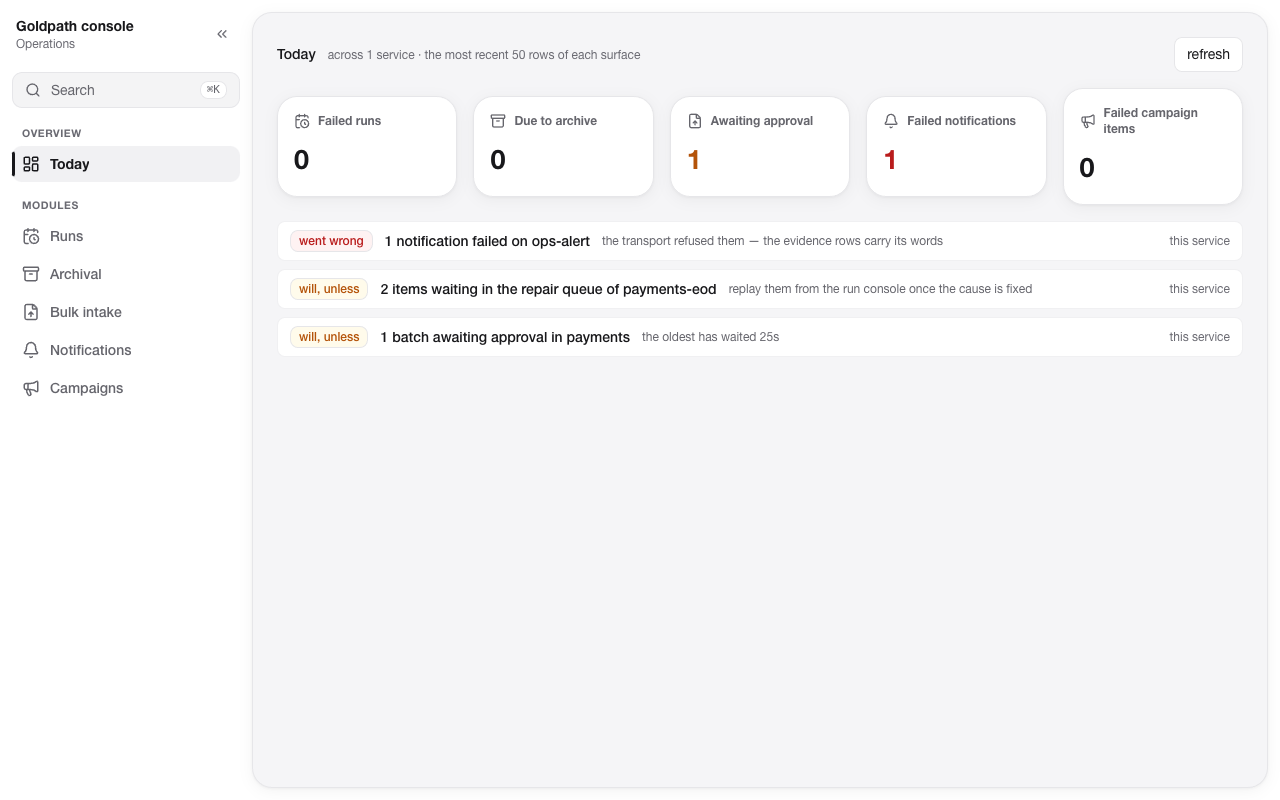
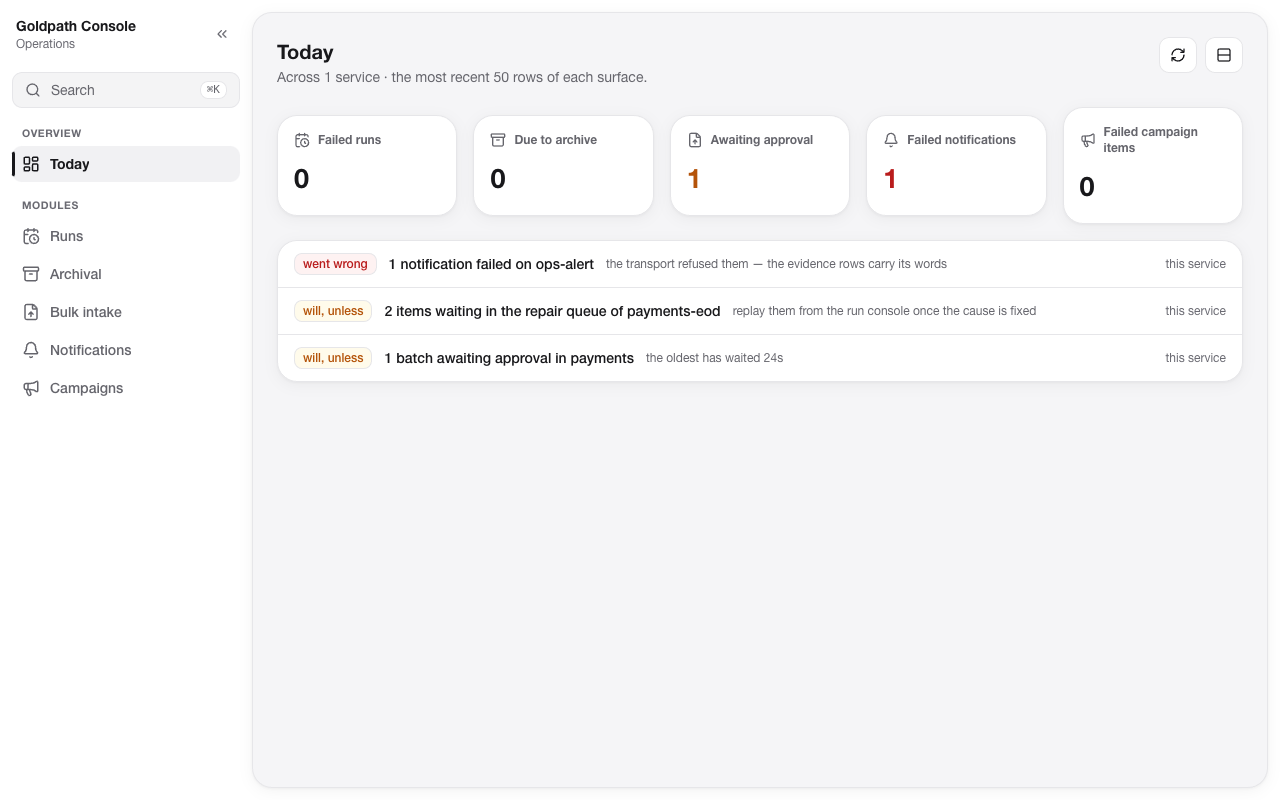
docs: freshness sweep — every stale line catches up with reality (#131)
* docs: freshness sweep — every stale line catches up with reality

- RFC index: the console row said 'U3 in flight'; it is U1-U9 met, contract R3.
- Migrations and Idempotency RFCs drop their 'draft' labels (both shipped);
  Idempotency's open DoD remainder (GP100x analyzers + ops package) is named
  and pointed at the housekeeping slice rather than left ambiguous.
- Template RFC: the dead GitLab-runner box closes with its reason — the
  problem died with the GitHub move.
- golden-manifests-v1: the coverage table gains a REALITY note — it is the
  target, not the present; templates/README stays the honest statement.
- CLAUDE.md status refreshed (2026-08-03): console phase complete, R3, and a
  pointer to the new docs/strategy/master-plan-2026-08.md — the owner-approved
  order of everything open, now a document instead of a conversation.
- README pictures re-captured from the finished U8/U9 family UI (in-card
  toolbars, icon utilities, Goldpath Console brand) — real stack, never a mock.

* review R1: the ai-sdlc ledger's console row catches up too

Accepted (reviewer output contract broke again; the finding is transcribed
and answered on the PR). The very ledger this PR's description invokes still
said 'console PARTIAL, U1-U3' — now SHIPPED-PROVEN, U1-U9, R3, 33 journeys,
with T10/T1 named as the honest remainder.

---------

diff --git a/docs/strategy/master-plan-2026-08.md b/docs/strategy/master-plan-2026-08.md
@@ -1,0 +1,56 @@
+# Master plan — 2026-08-03 (owner-approved order)
+
+The single ordered list of everything open, set with the owner on 2026-08-03 after a
+repo-wide sweep (code, RFCs, ledgers, schema-vs-generator, samples, CI). Nothing is
+open outside this list and the trigger-parked set at the bottom. Each step lands with
+the standing discipline: tests → PR → review findings answered BEFORE merge → CI
+green → merge → ledgers updated in the same PR.
+
+## The order
+
+1. **Campaign R1 implementation** — ExcludedDays, EndDate→ExpiredIncomplete, the retry
+   ladder (30s → 2m → repair queue), GlobalTps; schema + template + CLI recipe +
+   console fields + tests. The one accepted RFC with zero code; blocks S-FLEET-01/03.
+2. **Housekeeping slice** (one group): T14 four `.Produces<T>` · T8 bulk
+   `?definition=` filter · ops packages for Idempotency/AuditTrail/SoftDelete ·
+   analyzers GP1001/1002/1004 · T4 review agent as a CI step + output-contract
+   hardening · a monthly bench cadence · the GM coverage-table reality note and the
+   stale doc lines (done 2026-08-03, this PR).
+3. **preview.6 train** — R3 contract + console U7–U9 + R1 + housekeeping to NuGet;
+   T12 (CorPay EOD worker readiness) rides this train and unblocks T1; CorPay pins +
+   upgrade guide.
+4. **ADR-0012 + Platform/Module SDK RFC** — the philosophy in writing: Goldpath is a
+   PLATFORM; first-party product modules (Sync, API Portal, …) ride the shared core,
+   stand up standalone, and wear the one console family. Decisions to settle: the SDK
+   surface (shared files → packages + semver promise) · namespaced module declarations
+   in the manifest · the console contribution model (per-product console vs plugin
+   panels) · private distribution (repo/feed/license; closed modules on the open
+   core) · publishing the ui kit to npm (the @qorpe/ui question) · the container/deploy
+   story · federation auth across products.
+5. **Shapes + CLI package** (the RFC's implementation) — clean-architecture template ·
+   microservice/multi-service layout + gateway · plain-monolith variant ·
+   `goldpath new module|service` · the INTERACTIVE wizard (asks which modules, then
+   derives the infrastructure itself: "no broker needed — removed") · `goldpath init`
+   (L2 attach) · GM matrix 6/6 + a bulk-only GM row + the module×infrastructure
+   matrix as an adopter/sales document.
+6. **Pilot product module** — the API Portal or Sync skeleton: the module path's
+   CorPay. Its console composes from the kit — the third consumer that fires the
+   @qorpe/ui decision for real.
+7. **Scenario campaign** — starts after step 3 and runs alongside: S-FIN-01 first,
+   the S-FLEET set once R1 ships, the 30M rig spec co-written before any scale claim.
+   All seven seeded scenarios get evidence.
+8. **The samples — LAST, as the full-set exam** — Insurance and Telco from scratch
+   (with the step-5 wizard, proving it in anger) plus CorPay's open cells (SoftDelete,
+   Caching, a real Contracts-idiom worker consumer, the Archival slice, SPEC-GAPS
+   G3–G7, GAP-LEDGER #32/#33/#34). `add feature`, `db bundle`, the manifest skill —
+   all proven in real use; no empty core cell remains in the coverage matrix.
+
+## Parked on written triggers (deliberately open)
+
+Oracle provider (T16 — first committed Oracle-mandating adopter) · `upgrade` skill
+(first real preview→preview migration) · console URL routes / OIDC login / tenant
+picker (T9/T10/T11) · ⌘K entity-id search (needs a cross-module lookup endpoint) ·
+stat-card trends (no time series in the contract) · TS mutation for the ui kit (T3) ·
+saga + rules engine (Ring C — decided inside the step-4 RFC) · Phase 3 transformation
+package (reverse-engineer, differential-test, strangler guide — the phase after the
+samples).

diff --git a/docs/strategy/ai-sdlc-status.md b/docs/strategy/ai-sdlc-status.md
@@ -30,7 +30,7 @@ document exists to prevent.
 | Skill quality (evals) | eval set per skill; a skill that fails evals is not released (§6.2) | **PARTIAL** — as of 2026-07-24 the 4 acceptance runners are portable (published specdrift tool, no local-checkout assumption; failures print their output) and the deterministic half runs nightly (`evals-acceptance`: runner syntax + breaker vs CorPay). The LLM half — running the skills themselves per fixture — stays deferred until an agent-in-CI story exists (P2) | nightly `evals-acceptance` job | agent-in-CI story (P2) unlocks full skill-run evals |
 | Model proficiency matrix | skill × model → pass-rate matrix (§6.2) | **NOT BUILT** — Phase 2 (needs the eval lane first) | — | after the eval lane |
 | Release / DevOps | release train + delivery telemetry (§6.5) | Train **SHIPPED-PROVEN** (OIDC trusted publishing, license gate, roll script); delivery report **NOT BUILT** — Phase 2 | release workflow + license gate | — |
-| Operations | admin APIs + ops packs + console (§7.1) | Admin APIs + dashboards + runbooks **SHIPPED-PROVEN** per module; console **PARTIAL** (U1–U3 met; U4 in flight — the cross-service registry, the TODAY triage home and `MapGoldpathConsole()` ship, each proven in the nightly smoke against three real apps; the auth story and the CorPay proof remain) | admin contract frozen + integration proofs | console phases U1–U4 |
+| Operations | admin APIs + ops packs + console (§7.1) | Admin APIs + dashboards + runbooks **SHIPPED-PROVEN** per module; console **SHIPPED-PROVEN** (U1–U9 met 2026-08-03: cross-service registry, TODAY triage with stat cards, the full family standards ui-standard v1.3 §7–§9, contract R3 OR filters, `MapGoldpathConsole()` with canonical-root redirect — 33 smoke journeys + axe against three real apps and the app-SERVED console; the OIDC login and CorPay proof remain ledgered as T10/T1) | admin contract frozen + integration proofs | console smoke 33 journeys + axe |
 | Pipeline (chained skills + human gates) | §6.1 level 3 | **NOT BUILT** — Phase 2 by written deferral (§12) | — | — |
 | Domain memory | project knowledge that grows with every run (§6.3) | **NOT BUILT** — `domain-memory-v1.md` is a v0.1 draft | — | Phase 2/3 |
 

diff --git a/CLAUDE.md b/CLAUDE.md
@@ -22,14 +22,17 @@ not propose anything that contradicts them; changes only via a superseding ADR).
 - "latest" dependencies are forbidden; everything is pinned. Air-gapped networks are a first-class scenario.
 - Code style: `.editorconfig` + analyzers + `dotnet format`; XML summaries mandatory on public APIs.
 
-## Status (2026-07-28)
+## Status (2026-08-03)
 Phases 0–1 and the hardening set (H1–H8) are complete; the `0.1.0-preview.5` train is on
 nuget.org (plus `specdrift` 0.4.2 as tool/MCP/Docker/Action). Mockifyr is THE mock system
 (foundation §5.1 — no second provider). Phase D shipped the CorPay reference app
-(`samples/corpay`, proven nightly against the published packages). The console phase:
-U1–U5 met (`docs/rfc/goldpath-console.md` — the scheduling surface included; admin
-contract Revision R2), U6 is the deliberately-last styling pass; the console smoke drives
-three real apps and the app-SERVED console. Live status ledgers —
+(`samples/corpay`, proven nightly against the published packages). The console phase is
+COMPLETE: U1–U9 met (`docs/rfc/goldpath-console.md`; family standards ui-standard v1.3
+§7–§9 — one visual family with qorpe/mockifyr), the admin contract is at Revision R3
+(repeatable OR filters), and the console smoke (33 journeys + axe) drives three real
+apps and the app-SERVED console. Next: `docs/strategy/master-plan-2026-08.md` — Campaign R1 →
+housekeeping → preview.6 → ADR-0012 Platform/Module SDK → shapes+CLI wizard → pilot
+product module → scenario campaign → the Insurance/Telco samples as the full-set exam. Live status ledgers —
 keep them updated in the same PR that changes reality: `docs/strategy/ai-sdlc-status.md`
 (AI-assisted SDLC vs reality), `docs/strategy/coverage-matrix.md` (capability × sample),
 and `docs/strategy/open-threads.md` (deferred work with its TRIGGER and the proof that

diff --git a/docs/rfc/README.md b/docs/rfc/README.md
@@ -38,6 +38,6 @@ All "implemented" modules are published on nuget.org at `0.1.0-preview.2`.
 | [goldpath-versioning](goldpath-versioning.md) | SemVer & support promise (H7) | accepted (binding) |
 | [goldpath-event-contracts](goldpath-event-contracts.md) | event contracts idiom (per-app `<Name>.Contracts`) | accepted (2026-07-14) |
 | [goldpath-skills-v1](goldpath-skills-v1.md) | the AI skill layer v1 | implemented — ships inside the template; field status: `../strategy/ai-sdlc-status.md` §2 |
-| [goldpath-console](goldpath-console.md) | Goldpath.Console (the UI phase) | accepted — U1–U2 met, U3 in flight |
+| [goldpath-console](goldpath-console.md) | Goldpath.Console (the UI phase) | implemented — U1–U9 met (family standards: `../strategy/ui-standard-v1.md` §7–§9); admin contract at Revision R3 |
 | [goldpath-ai](goldpath-ai.md) | Goldpath.Ai — opt-in runtime AI (gateway · tool registry · decision record · confidence gate) | **ACCEPTED** (2026-07-26, D1–D4 as recommended) — implementation opens after the UI phase |
 | [spec-engine-v1](spec-engine-v1.md) | specdrift (separate repo) | implemented — 0.4.2 published (NuGet tool + MCP + Docker + Action) |

diff --git a/docs/rfc/goldpath-template.md b/docs/rfc/goldpath-template.md
@@ -78,7 +78,7 @@ Template parameters ⇄ manifest fields (deterministic both ways): `--db postgre
       shapes (clean-architecture layout, microservice multi-project, plain monolith). Rationale:
       Ring B modules do not depend on template layout; deferring keeps Phase 1 closable now.
       GM-2/6 join the matrix when 7d ships — written here, not silent
-- [ ] Pipelines re-enabled (MR/main) — ATTEMPTED 2026-07-04: runner environment not ready (jobs stall); reverted to manual-only. Runner fix is a standalone task (infra), NOT a Phase 1 blocker: local validation is the enforced gate
+- [x] Pipelines re-enabled — OVERTAKEN 2026-08-03: the GitLab-runner problem died with the GitHub move; `.github/workflows/ci.yml` runs on every PR and push to main, nightly runs the GM matrix. The original stall never needed fixing.
 - [ ] Phase 1 gate ritual: generate a solution, run it, walk the dashboard — recorded as the demo script
 
 ## 9. Decision Points (Ömer)

diff --git a/docs/strategy/golden-manifests-v1.md b/docs/strategy/golden-manifests-v1.md
@@ -35,6 +35,14 @@
 
 ## 2. Coverage Check (every enum value ≥1 GM)
 
+> **Reality note (2026-08-03):** this table is the TARGET, not the present. Today the
+> generator produces ONE shape (modular-monolith × vertical-slice) and CI proves GM-1
+> plus a relaxed GM-4 (see `templates/README.md`, the honest statement). GM-2/5/6 are
+> unrealizable until the shapes package ships (template RFC 7d): oracle/kafka are
+> schema-only, ldap/saml are not in the auth enum, and no microservice/gateway/clean-arch
+> template exists. The Platform & Shapes phase (master plan step 5) closes this gap;
+> until then, treat unchecked rows here as roadmap, never as coverage.
+
 | Dimension | Value → GM |
 |---|---|
 | deploymentModel | monolith→4 · modular-monolith→1,3,5 · microservice→2,6 |

diff --git a/docs/rfc/goldpath-idempotency.md b/docs/rfc/goldpath-idempotency.md
@@ -3,7 +3,7 @@
 > This document is also the **reference example of the module RFC template** (foundation 13.8):
 > every module is born by filling in these eight sections. The template sections are fixed;
 > the content is module-specific.
-> Status: v0.1 draft (2026-07-03) · Ring: B · Dependencies: Data (store), Mediant (behavior), Messaging (inbox)
+> Status: **IMPLEMENTED** (package + template + GM wiring shipped; drafted v0.1 2026-07-03 — the unchecked DoD boxes below, analyzers GP1001/1002/1004 and the ops package, remain the module's OPEN remainder, ledgered for the housekeeping slice) · Ring: B · Dependencies: Data (store), Mediant (behavior), Messaging (inbox)
 
 ---
 

diff --git a/docs/rfc/goldpath-migrations.md b/docs/rfc/goldpath-migrations.md
@@ -4,7 +4,7 @@
 > tables (qrtz_, archive, bulk, notification, campaign, audit...) need a proven path for
 > (a) enabling a feature on a LIVE system and (b) upgrading BETWEEN Goldpath versions when a
 > package changes its model. Today the template SAYS "production applies the CI migration
-> bundle" — and nothing anywhere produces one. Status: v0.1 DRAFT for approval (2026-07-10).
+> bundle" — and nothing anywhere produces one. Status: **IMPLEMENTED** (H1 S1–S3 shipped: template + `goldpath db` verbs + CI bundle + validate-migrations proofs; accepted 2026-07-10, drafted as v0.1).
 
 ## 1. Scope / Non-Goals
 
